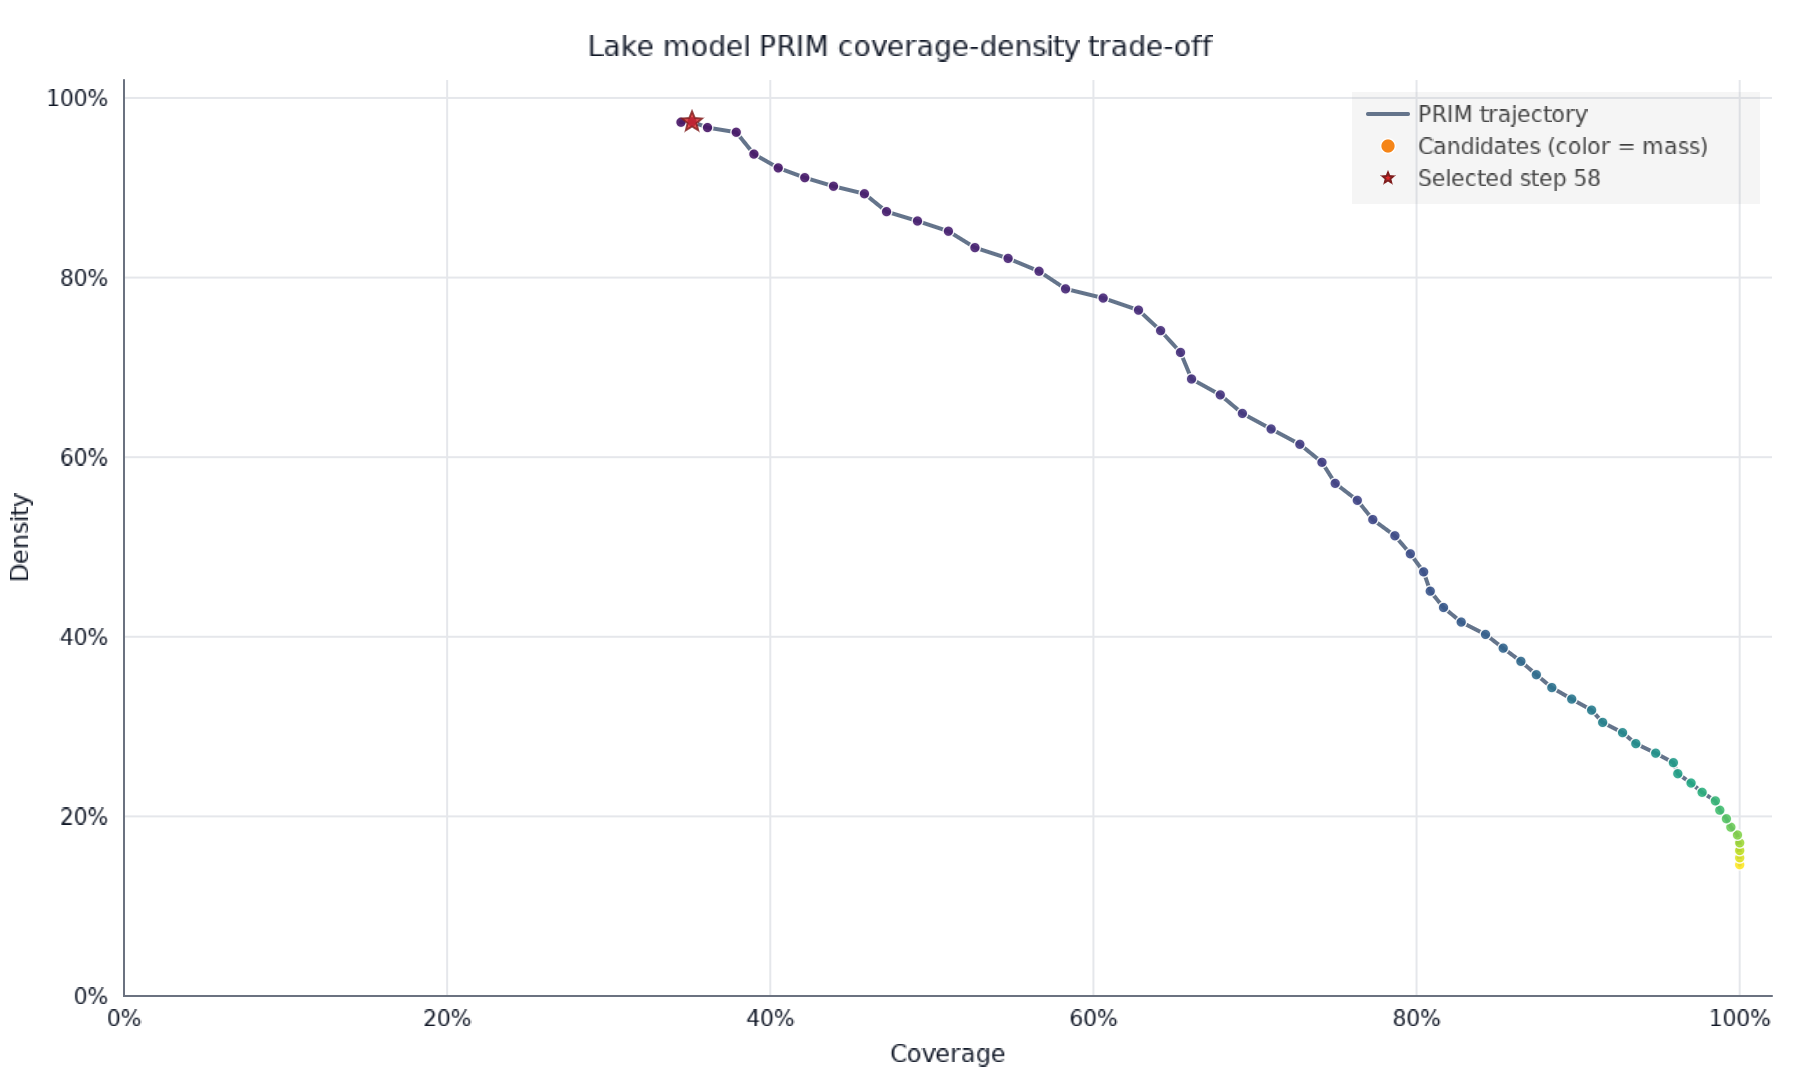
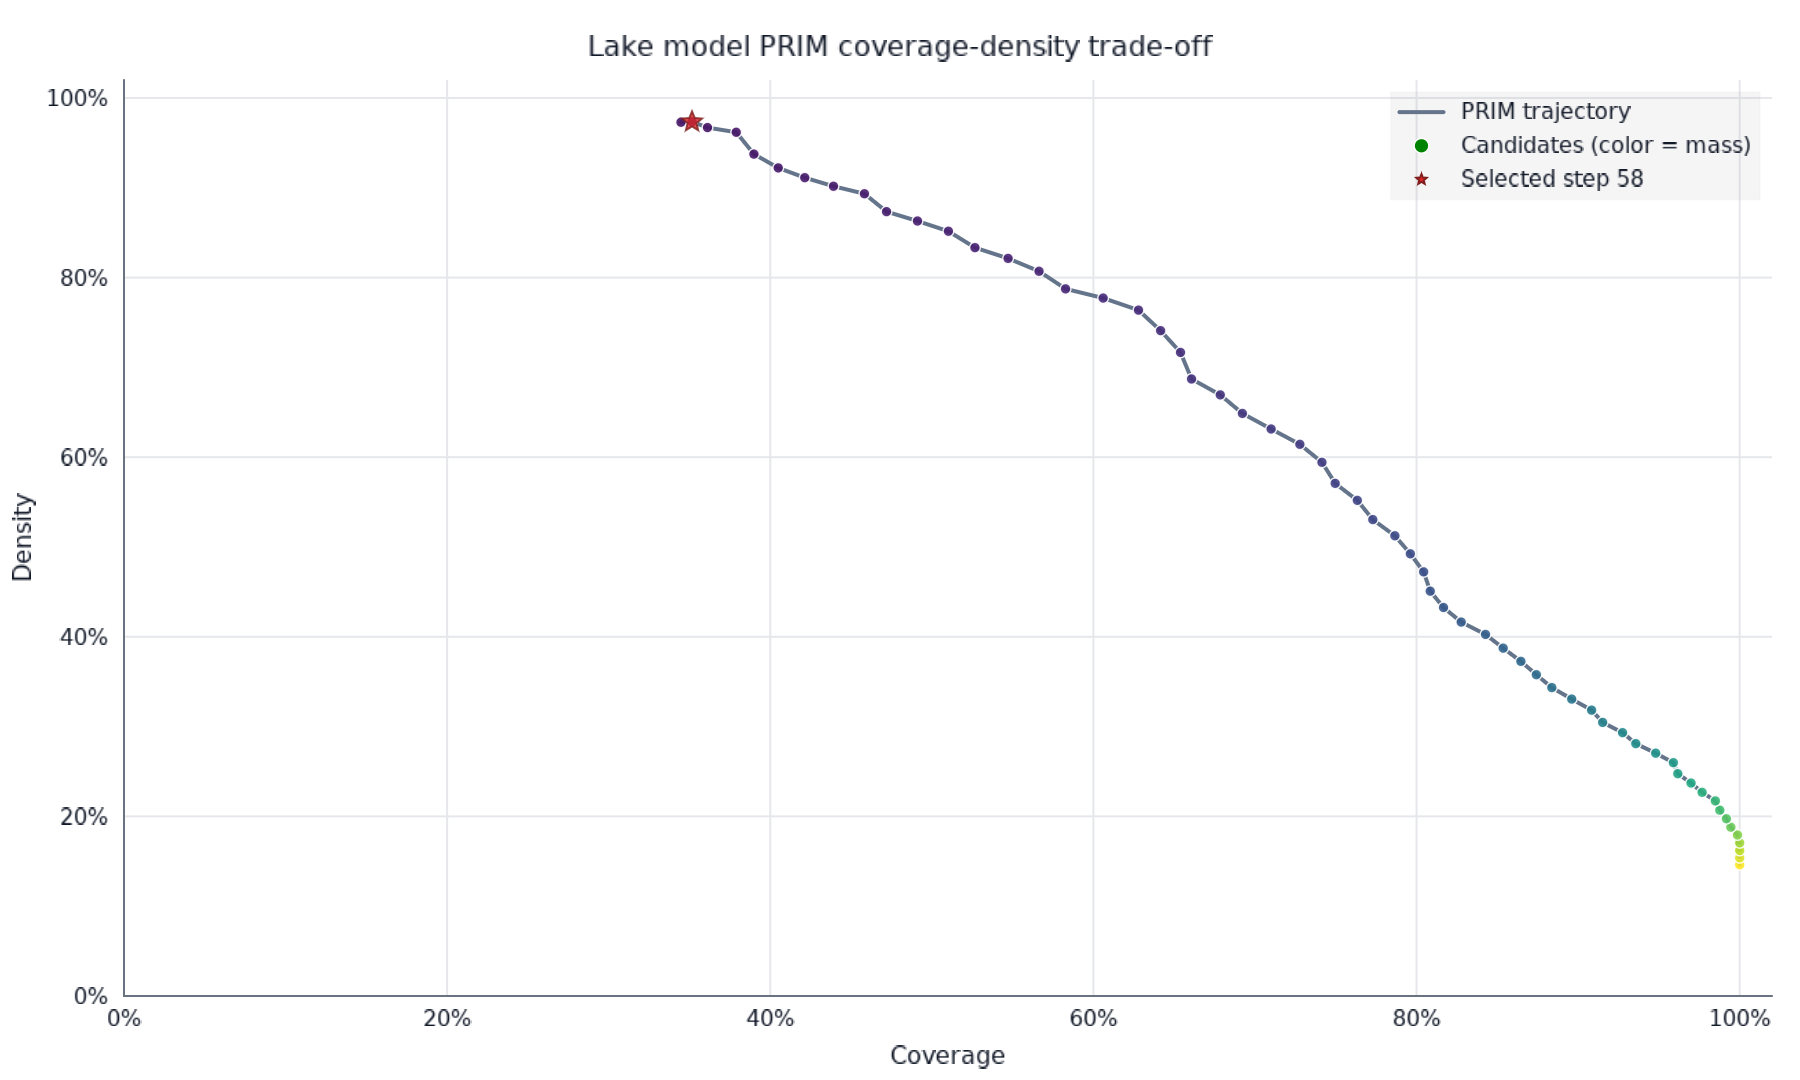
Upgrade lake plots to XY 0.0.5

Changed region(s): [[0.7778, 0.0917, 0.9644, 0.1833], [0.4978, 0.9472, 0.56, 1.0], [0.0, 0.4583, 0.0311, 0.55]]

diff --git a/examples/lake_model/plot.py b/examples/lake_model/plot.py
@@ -1,17 +1,17 @@
 #!/usr/bin/env -S uv run --script
 # /// script
-# requires-python = ">=3.11"
+# requires-python = ">=3.14"
 # dependencies = [
 #     "matplotlib>=3.11.1",
-#     "xy==0.0.1",
+#     "xy==0.0.5",
 # ]
 # ///
 """Render Tenax's lake-model PRIM exports with XY and Matplotlib.
 
 XY writes self-contained interactive HTML and static PNG versions of the
 trade-off curve, a b/q experiment projection, and normalized box limits.
-Matplotlib writes the pairwise scatter-and-box matrix that XY 0.0.1 does not
-yet support.
+Matplotlib writes the pairwise scatter-and-box matrix that XY does not yet
+support.
 """
 
 from __future__ import annotations

diff --git a/README.md b/README.md
@@ -106,7 +106,7 @@ The evaluator yields one `ChunkResult` per request and may yield chunks out of r
 
 ### Lake model workflow example
 
-[`examples/lake_model/`](examples/lake_model/) applies the complete current workflow to the Direct Policy Search lake problem from EMA Workbench's open-exploration tutorial. It samples 5,000 joint uncertainty-policy inputs, evaluates the stochastic model with deterministic row seeds, classifies `max_P < 0.8`, runs PRIM, and exports the complete trajectory. A pinned Python script uses [XY](https://reflex.dev/docs/xy/) to produce interactive HTML and static PNG trade-off, experiment, and box-limit plots. Because XY 0.0.1 does not yet support scatter-matrix composition, Matplotlib produces the EMA-style pairwise scatter-and-box plot.
+[`examples/lake_model/`](examples/lake_model/) applies the complete current workflow to the Direct Policy Search lake problem from EMA Workbench's open-exploration tutorial. It samples 5,000 joint uncertainty-policy inputs, evaluates the stochastic model with deterministic row seeds, classifies `max_P < 0.8`, runs PRIM, and exports the complete trajectory. A pinned Python script uses [XY](https://reflex.dev/docs/xy/) to produce interactive HTML and static PNG trade-off, experiment, and box-limit plots. Because XY does not yet provide a dedicated scatter-matrix composition, Matplotlib produces the EMA-style pairwise scatter-and-box plot.
 
 ```console
 cargo run --release --example lake_model

diff --git a/examples/lake_model/README.md b/examples/lake_model/README.md
@@ -38,10 +38,10 @@ cargo run --release --example lake_model -- /tmp/lake-analysis
 ./examples/lake_model/plot.py --input /tmp/lake-analysis
 ```
 
-The plotting script uses `uv` inline metadata and a checked-in lockfile, so no
-separate Python environment setup is needed. It pins XY 0.0.1 because XY is
-currently an early-alpha library and uses the locked Matplotlib release for the
-pairwise plot.
+The plotting script requires Python 3.14 or newer and uses `uv` inline metadata
+with a checked-in lockfile, so no separate environment setup is needed. It pins
+XY 0.0.5 because XY's pre-1.0 releases may contain breaking changes and uses the
+locked Matplotlib release for the pairwise plot.
 
 ## Outputs
 
@@ -115,7 +115,7 @@ byte-for-byte reproduction of EMA Workbench's notebook output:
   stochastic samples and exact trajectory differ.
 - Evaluation is sequential. Parallel execution and Latin hypercube sampling
   are deferred to later roadmap phases.
-- XY 0.0.1 does not yet provide scatter-matrix composition, so the three
+- XY does not yet provide a dedicated scatter-matrix composition, so the three
   single-panel plots use XY while the pairwise scatter-and-box matrix uses
   Matplotlib.
 
